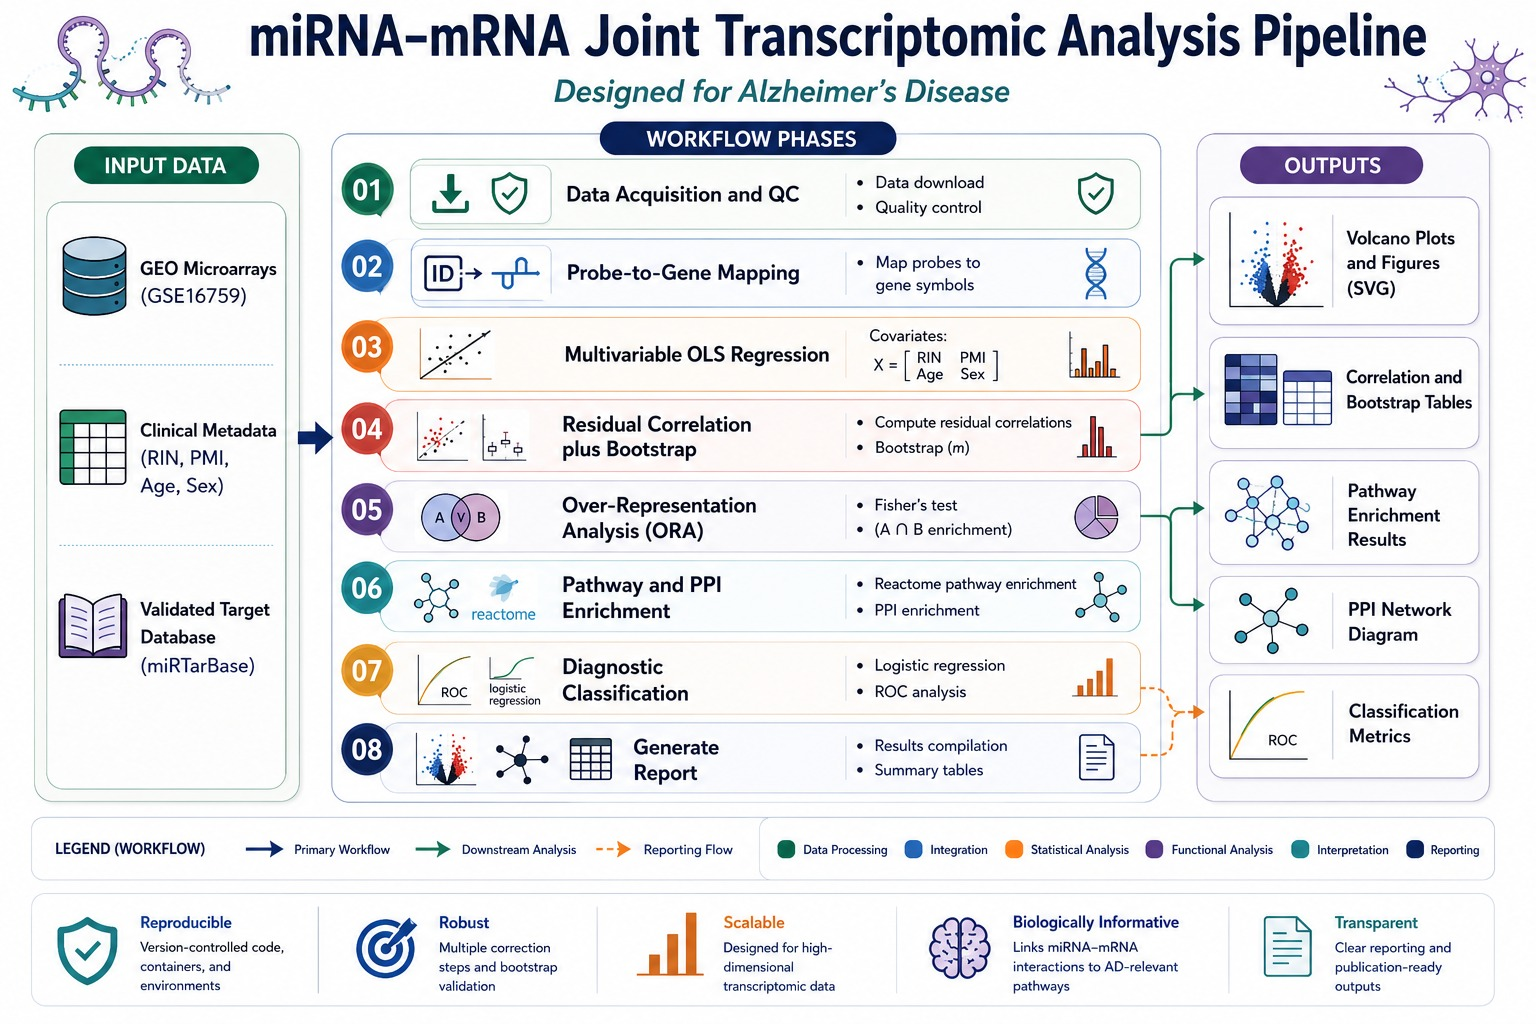
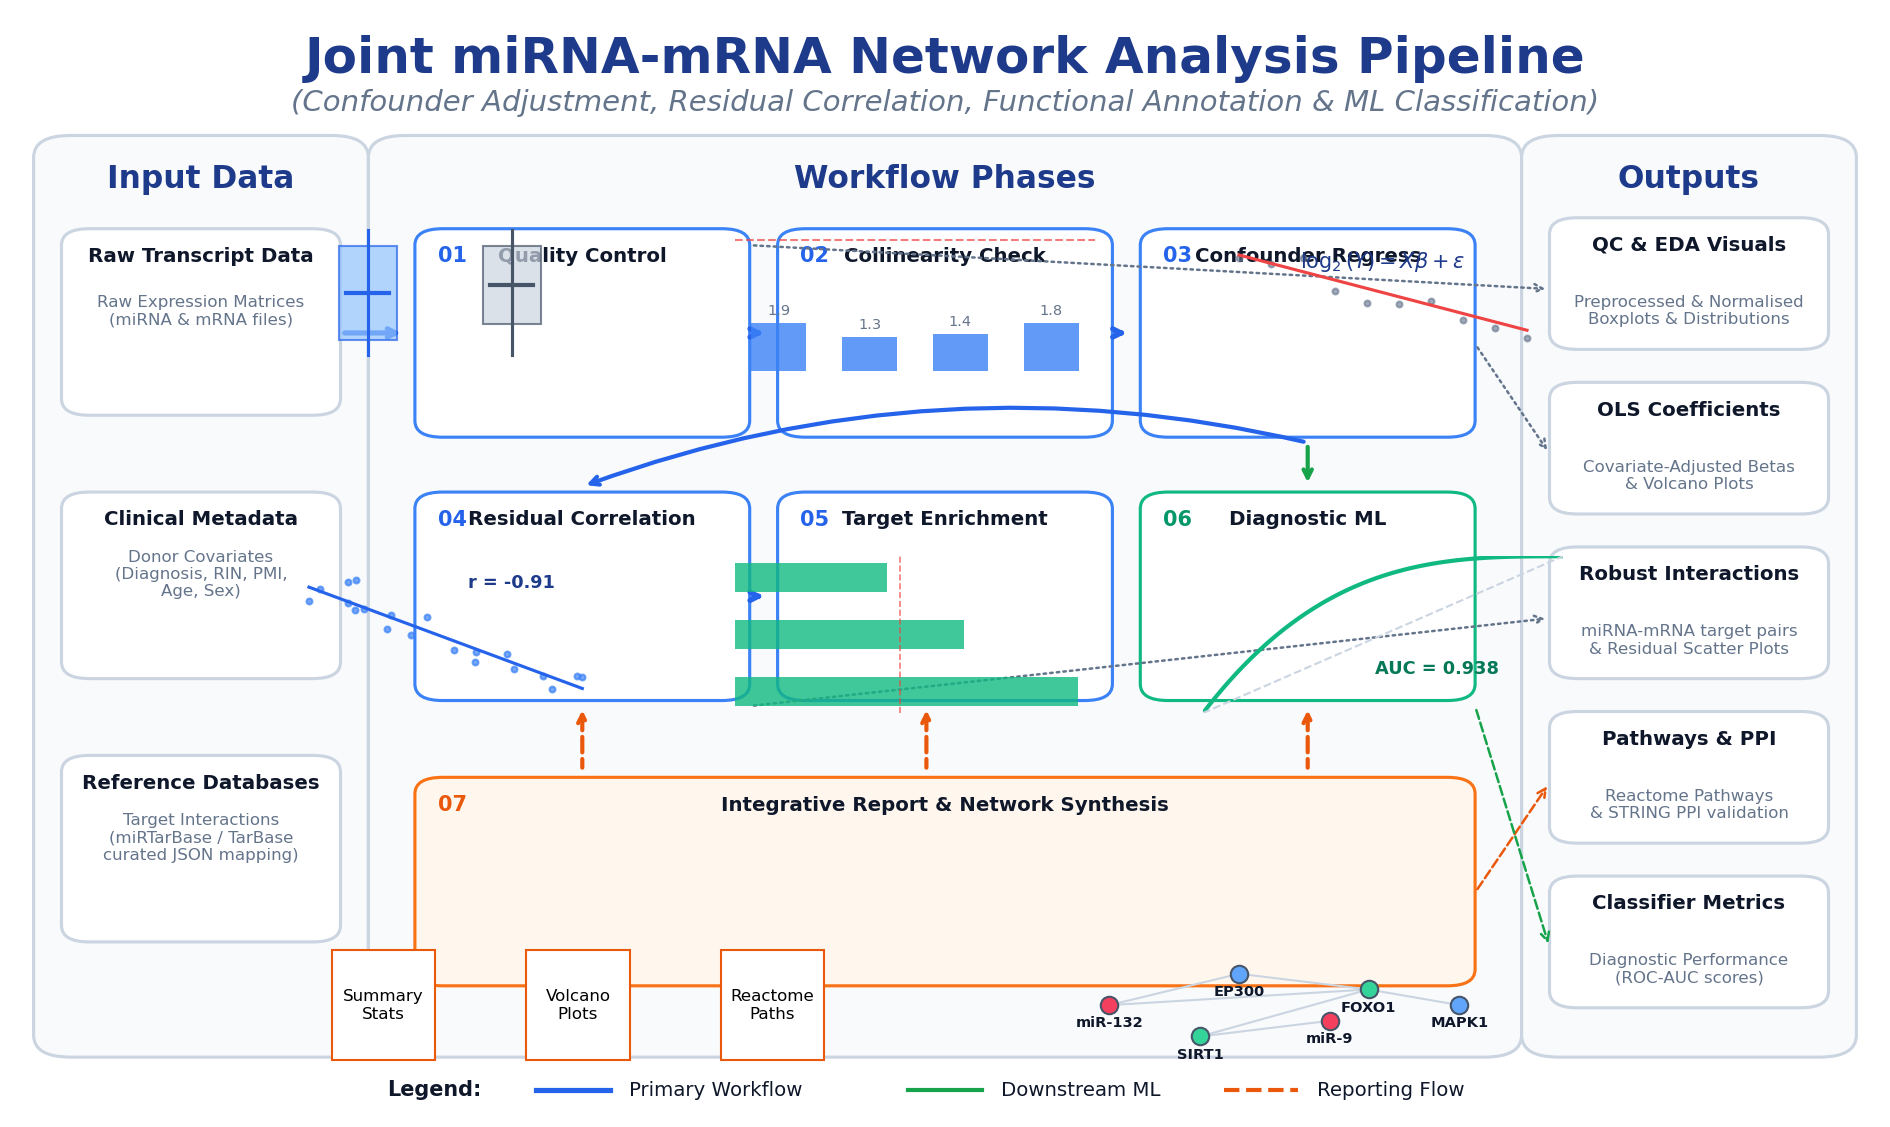
add_workflow.png

Changed region(s): [[0.0, 0.0, 1.0, 1.0]]

diff --git a/generate_workflow.py b/generate_workflow.py
@@ -1,0 +1,333 @@
+import os
+import numpy as np
+import matplotlib
+matplotlib.use('Agg')
+import matplotlib.pyplot as plt
+import matplotlib.patches as mpatches
+import matplotlib.lines as mlines
+
+# Define a color palette
+COLOR_PRIMARY = '#1e3a8a'     # Deep Blue
+COLOR_ACCENT = '#2563eb'      # Blue
+COLOR_SUCCESS = '#16a34a'     # Green
+COLOR_WARNING = '#ea580c'     # Orange/Yellow
+COLOR_BG_COLUMN = '#f8fafc'   # Slate 50
+COLOR_BORDER_COLUMN = '#cbd5e1' # Slate 300
+COLOR_TEXT_MAIN = '#0f172a'   # Slate 900
+COLOR_TEXT_MUTED = '#64748b'  # Slate 500
+
+def create_workflow_diagram(output_path):
+    fig, ax = plt.subplots(figsize=(16, 9.5), dpi=150)
+    fig.patch.set_facecolor('#ffffff')
+    ax.axis('off')
+    ax.set_xlim(0, 1)
+    ax.set_ylim(0, 1)
+
+    # ----------------------------------------------------
+    # Titles
+    # ----------------------------------------------------
+    ax.text(0.5, 0.96, "Joint miRNA-mRNA Network Analysis Pipeline", 
+            fontsize=24, fontweight='bold', ha='center', va='center', color=COLOR_PRIMARY)
+    ax.text(0.5, 0.92, "(Confounder Adjustment, Residual Correlation, Functional Annotation & ML Classification)", 
+            fontsize=14, fontstyle='italic', ha='center', va='center', color=COLOR_TEXT_MUTED)
+
+    # Helper function to draw columns
+    def draw_column(x_start, width, title, num_items=None):
+        rect = mpatches.FancyBboxPatch((x_start, 0.06), width, 0.82, boxstyle="round,pad=0.01,rounding_size=0.02",
+                                      facecolor=COLOR_BG_COLUMN, edgecolor=COLOR_BORDER_COLUMN, linewidth=1.5, zorder=0)
+        ax.add_patch(rect)
+        ax.text(x_start + width/2, 0.85, title, fontsize=15, fontweight='bold', ha='center', va='center', color=COLOR_PRIMARY)
+
+    # Draw columns
+    draw_column(0.02, 0.16, "Input Data")
+    draw_column(0.20, 0.60, "Workflow Phases")
+    draw_column(0.82, 0.16, "Outputs")
+
+    # ----------------------------------------------------
+    # Helper to draw workflow steps/cards
+    # ----------------------------------------------------
+    def draw_card(title, x, y, w, h, step_num="", card_type="primary"):
+        # Select color based on card type
+        if card_type == "primary":
+            border_c = '#3b82f6'
+            bg_c = '#ffffff'
+            num_c = '#2563eb'
+        elif card_type == "ml":
+            border_c = '#10b981'
+            bg_c = '#ffffff'
+            num_c = '#059669'
+        elif card_type == "report":
+            border_c = '#f97316'
+            bg_c = '#fff7ed'
+            num_c = '#ea580c'
+        else:
+            border_c = COLOR_BORDER_COLUMN
+            bg_c = '#ffffff'
+            num_c = COLOR_TEXT_MUTED
+
+        # Draw card background
+        card = mpatches.FancyBboxPatch((x, y), w, h, boxstyle="round,pad=0.005,rounding_size=0.015",
+                                      facecolor=bg_c, edgecolor=border_c, linewidth=1.5, zorder=1)
+        ax.add_patch(card)
+
+        # Title
+        ax.text(x + w/2, y + h - 0.02, title, fontsize=9.5, fontweight='bold', ha='center', va='center', color=COLOR_TEXT_MAIN, zorder=2)
+        
+        # Step Number Badge
+        if step_num:
+            ax.text(x + 0.015, y + h - 0.02, step_num, fontsize=10, fontweight='bold', ha='center', va='center', color=num_c, zorder=2)
+
+    # ----------------------------------------------------
+    # Column 1: Input Data Cards
+    # ----------------------------------------------------
+    # 1. Raw expression
+    draw_card("Raw Transcript Data", 0.03, 0.64, 0.14, 0.16, card_type="input")
+    ax.text(0.10, 0.73, "Raw Expression Matrices\n(miRNA & mRNA files)", fontsize=8, ha='center', va='center', color=COLOR_TEXT_MUTED)
+    # 2. Clinical Metadata
+    draw_card("Clinical Metadata", 0.03, 0.40, 0.14, 0.16, card_type="input")
+    ax.text(0.10, 0.49, "Donor Covariates\n(Diagnosis, RIN, PMI,\nAge, Sex)", fontsize=8, ha='center', va='center', color=COLOR_TEXT_MUTED)
+    # 3. Target database
+    draw_card("Reference Databases", 0.03, 0.16, 0.14, 0.16, card_type="input")
+    ax.text(0.10, 0.25, "Target Interactions\n(miRTarBase / TarBase\ncurated JSON mapping)", fontsize=8, ha='center', va='center', color=COLOR_TEXT_MUTED)
+
+    # ----------------------------------------------------
+    # Column 2: Workflow Phase Cards
+    # ----------------------------------------------------
+    # Row 1: Steps 1, 2, 3
+    # Step 1: Preprocessing & QC
+    draw_card("Quality Control", 0.22, 0.62, 0.17, 0.18, step_num="01", card_type="primary")
+    # Step 2: VIF Multicollinearity
+    draw_card("Collinearity Check", 0.415, 0.62, 0.17, 0.18, step_num="02", card_type="primary")
+    # Step 3: OLS Regress
+    draw_card("Confounder Regress", 0.61, 0.62, 0.17, 0.18, step_num="03", card_type="primary")
+
+    # Row 2: Steps 4, 5, 6
+    # Step 4: Residual Pearson Correlation
+    draw_card("Residual Correlation", 0.22, 0.38, 0.17, 0.18, step_num="04", card_type="primary")
+    # Step 5: Target ORA
+    draw_card("Target Enrichment", 0.415, 0.38, 0.17, 0.18, step_num="05", card_type="primary")
+    # Step 6: ML Classification
+    draw_card("Diagnostic ML", 0.61, 0.38, 0.17, 0.18, step_num="06", card_type="ml")
+
+    # Row 3: Step 7 (Generate Report & Network Synthesis)
+    draw_card("Integrative Report & Network Synthesis", 0.22, 0.12, 0.56, 0.18, step_num="07", card_type="report")
+
+    # ----------------------------------------------------
+    # Column 3: Outputs
+    # ----------------------------------------------------
+    draw_card("QC & EDA Visuals", 0.83, 0.70, 0.14, 0.11, card_type="output")
+    ax.text(0.90, 0.73, "Preprocessed & Normalised\nBoxplots & Distributions", fontsize=8, ha='center', va='center', color=COLOR_TEXT_MUTED)
+
+    draw_card("OLS Coefficients", 0.83, 0.55, 0.14, 0.11, card_type="output")
+    ax.text(0.90, 0.58, "Covariate-Adjusted Betas\n& Volcano Plots", fontsize=8, ha='center', va='center', color=COLOR_TEXT_MUTED)
+
+    draw_card("Robust Interactions", 0.83, 0.40, 0.14, 0.11, card_type="output")
+    ax.text(0.90, 0.43, "miRNA-mRNA target pairs\n& Residual Scatter Plots", fontsize=8, ha='center', va='center', color=COLOR_TEXT_MUTED)
+
+    draw_card("Pathways & PPI", 0.83, 0.25, 0.14, 0.11, card_type="output")
+    ax.text(0.90, 0.28, "Reactome Pathways\n& STRING PPI validation", fontsize=8, ha='center', va='center', color=COLOR_TEXT_MUTED)
+
+    draw_card("Classifier Metrics", 0.83, 0.10, 0.14, 0.11, card_type="output")
+    ax.text(0.90, 0.13, "Diagnostic Performance\n(ROC-AUC scores)", fontsize=8, ha='center', va='center', color=COLOR_TEXT_MUTED)
+
+    # ----------------------------------------------------
+    # INSETS: Embedding mini-plots inside workflow cards!
+    # ----------------------------------------------------
+    # 01 QC: Mini Boxplot
+    ax_ins1 = fig.add_axes([0.23, 0.63, 0.15, 0.11])
+    ax_ins1.axis('off')
+    # Draw simple boxes
+    ax_ins1.add_patch(mpatches.Rectangle((1, 0.2), 0.8, 0.6, facecolor='#93c5fd', edgecolor='#2563eb', alpha=0.7))
+    ax_ins1.add_patch(mpatches.Rectangle((3, 0.3), 0.8, 0.5, facecolor='#cbd5e1', edgecolor='#475569', alpha=0.7))
+    ax_ins1.plot([1.4, 1.4], [0.1, 0.9], color='#2563eb', linewidth=1.5)
+    ax_ins1.plot([3.4, 3.4], [0.1, 0.9], color='#475569', linewidth=1.5)
+    ax_ins1.plot([1.1, 1.7], [0.5, 0.5], color='#2563eb', linewidth=2)
+    ax_ins1.plot([3.1, 3.7], [0.55, 0.55], color='#475569', linewidth=2)
+    ax_ins1.set_xlim(0, 5)
+    ax_ins1.set_ylim(0, 1)
+
+    # 02 VIF: Mini Bar Chart
+    ax_ins2 = fig.add_axes([0.425, 0.63, 0.15, 0.11])
+    ax_ins2.axis('off')
+    bars = ax_ins2.bar(['A', 'P', 'R', 'S'], [1.85, 1.30, 1.43, 1.82], color='#3b82f6', alpha=0.8, width=0.6)
+    ax_ins2.axhline(y=5.0, color='#ef4444', linestyle='--', linewidth=1, alpha=0.7)
+    ax_ins2.set_ylim(0, 6)
+    # Add tiny text labels
+    for bar in bars:
+        height = bar.get_height()
+        ax_ins2.text(bar.get_x() + bar.get_width()/2., height + 0.2, f'{height:.1f}',
+                    ha='center', va='bottom', fontsize=7, color=COLOR_TEXT_MUTED)
+
+    # 03 OLS: Mini formula / regression plot
+    ax_ins3 = fig.add_axes([0.62, 0.63, 0.15, 0.11])
+    ax_ins3.axis('off')
+    ax_ins3.text(0.5, 0.7, r"$\log_2(Y) = X\beta + \varepsilon$", fontsize=10, ha='center', va='center', color=COLOR_PRIMARY)
+    # Draw simple regression line
+    xs = np.linspace(0.1, 0.9, 10)
+    ys = 0.8 - 0.6 * xs + np.random.normal(0, 0.05, 10)
+    ax_ins3.scatter(xs, ys, color='#64748b', s=8, alpha=0.6)
+    ax_ins3.plot(xs, 0.8 - 0.6 * xs, color='#ef4444', linewidth=1.5)
+    ax_ins3.set_xlim(0, 1)
+    ax_ins3.set_ylim(0, 1)
+
+    # 04 Residual Correlation: Scatter Plot
+    ax_ins4 = fig.add_axes([0.23, 0.39, 0.15, 0.11])
+    ax_ins4.axis('off')
+    # Generate anti-correlated scatter
+    np.random.seed(42)
+    rx = np.random.uniform(0.1, 0.9, 20)
+    ry = 0.9 - 0.8 * rx + np.random.normal(0, 0.08, 20)
+    ax_ins4.scatter(rx, ry, color='#3b82f6', s=8, alpha=0.7)
+    ax_ins4.plot(np.unique(rx), np.poly1d(np.polyfit(rx, ry, 1))(np.unique(rx)), color='#2563eb', linewidth=1.5)
+    ax_ins4.text(0.8, 0.8, "r = -0.91", fontsize=8.5, weight='bold', color='#1e3a8a', ha='right')
+    ax_ins4.set_xlim(0, 1)
+    ax_ins4.set_ylim(0, 1)
+
+    # 05 Target ORA: Enrichment bars
+    ax_ins5 = fig.add_axes([0.425, 0.39, 0.15, 0.11])
+    ax_ins5.axis('off')
+    pathways = ['miR-9', 'miR-132', 'miR-155']
+    p_vals = [2.7, 1.8, 1.2]  # -log10 p-values
+    y_pos = np.arange(len(pathways))
+    ax_ins5.barh(y_pos, p_vals, color='#10b981', alpha=0.8, height=0.5)
+    ax_ins5.axvline(x=1.3, color='#ef4444', linestyle='--', linewidth=0.8, alpha=0.7) # p=0.05
+    ax_ins5.set_yticks(y_pos)
+    ax_ins5.set_yticklabels(pathways, fontsize=6.5, color=COLOR_TEXT_MAIN)
+    ax_ins5.tick_params(left=False, bottom=False, labelbottom=False)
+
+    # 06 Diagnostic ML: ROC Curve
+    ax_ins6 = fig.add_axes([0.62, 0.39, 0.15, 0.11])
+    ax_ins6.axis('off')
+    # ROC curve
+    roc_x = np.linspace(0, 1, 100)
+    roc_y = 1 - (1 - roc_x)**3 # high AUC
+    ax_ins6.plot(roc_x, roc_y, color='#10b981', linewidth=2)
+    ax_ins6.plot([0, 1], [0, 1], color='#cbd5e1', linestyle='--', linewidth=1)
+    ax_ins6.text(0.65, 0.25, "AUC = 0.938", fontsize=8.5, weight='bold', color='#047857', ha='center')
+    ax_ins6.set_xlim(0, 1)
+    ax_ins6.set_ylim(0, 1)
+
+    # 07 Report & Network: Complex network plot + report icons
+    ax_ins7 = fig.add_axes([0.23, 0.13, 0.54, 0.11])
+    ax_ins7.axis('off')
+    # Draw simple report items
+    # Doc icon 1: Summary Stats
+    ax_ins7.add_patch(mpatches.Rectangle((0.05, 0.15), 0.08, 0.7, facecolor='#ffffff', edgecolor='#ea580c', linewidth=1))
+    ax_ins7.text(0.09, 0.5, "Summary\nStats", fontsize=8, ha='center', va='center')
+    # Doc icon 2: Plots
+    ax_ins7.add_patch(mpatches.Rectangle((0.20, 0.15), 0.08, 0.7, facecolor='#ffffff', edgecolor='#ea580c', linewidth=1))
+    ax_ins7.text(0.24, 0.5, "Volcano\nPlots", fontsize=8, ha='center', va='center')
+    # Doc icon 3: Pathways
+    ax_ins7.add_patch(mpatches.Rectangle((0.35, 0.15), 0.08, 0.7, facecolor='#ffffff', edgecolor='#ea580c', linewidth=1))
+    ax_ins7.text(0.39, 0.5, "Reactome\nPaths", fontsize=8, ha='center', va='center')
+    
+    # Draw simple Network Representation in the remaining space of Step 7
+    # Nodes:
+    nodes = [(0.65, 0.5), (0.75, 0.7), (0.85, 0.6), (0.72, 0.3), (0.82, 0.4), (0.92, 0.5)]
+    labels = ['miR-132', 'EP300', 'FOXO1', 'SIRT1', 'miR-9', 'MAPK1']
+    node_colors = ['#f43f5e', '#60a5fa', '#34d399', '#34d399', '#f43f5e', '#60a5fa']
+    
+    # Edges:
+    edges = [(0, 1), (0, 2), (4, 3), (3, 2), (5, 2), (1, 2)]
+    for e in edges:
+        n1, n2 = nodes[e[0]], nodes[e[1]]
+        ax_ins7.plot([n1[0], n2[0]], [n1[1], n2[1]], color='#cbd5e1', linewidth=1, zorder=1)
+        
+    for i, (nx, ny) in enumerate(nodes):
+        ax_ins7.scatter(nx, ny, color=node_colors[i], s=70, edgecolor='#475569', zorder=2)
+        ax_ins7.text(nx, ny - 0.14, labels[i], fontsize=7, weight='bold', ha='center', color=COLOR_TEXT_MAIN, zorder=3)
+    ax_ins7.set_xlim(0, 1)
+    ax_ins7.set_ylim(0, 1)
+
+    # ----------------------------------------------------
+    # CONNECTING ARROWS & FLOWS
+    # ----------------------------------------------------
+    # Input Data -> QC Card
+    ax.annotate('', xy=(0.21, 0.71), xytext=(0.175, 0.71),
+                arrowprops=dict(arrowstyle="->", color=COLOR_ACCENT, lw=2.5))
+    
+    # Input Data -> Clinical Metadata Metadata -> QC Card
+    # Handled by metadata inputs going into step 1 and 2
+    # Arrow between Row 1 Cards: Step 01 -> Step 02
+    ax.annotate('', xy=(0.405, 0.71), xytext=(0.395, 0.71),
+                arrowprops=dict(arrowstyle="->", color=COLOR_ACCENT, lw=2.5))
+    # Step 02 -> Step 03
+    ax.annotate('', xy=(0.60, 0.71), xytext=(0.59, 0.71),
+                arrowprops=dict(arrowstyle="->", color=COLOR_ACCENT, lw=2.5))
+    
+    # Step 03 -> Step 04 (Adjusted expression goes to correlation)
+    # Down arrow and left arrow
+    ax.annotate('', xy=(0.305, 0.57), xytext=(0.695, 0.61),
+                arrowprops=dict(arrowstyle="->", color=COLOR_ACCENT, lw=2.0, connectionstyle="arc3,rad=0.15"))
+    
+    # Step 03 -> Step 06 (ML classification on adjusted residuals)
+    # Down arrow
+    ax.annotate('', xy=(0.695, 0.57), xytext=(0.695, 0.61),
+                arrowprops=dict(arrowstyle="->", color=COLOR_SUCCESS, lw=2.0))
+
+    # Step 04 -> Step 05 (Residuals to target ORA)
+    ax.annotate('', xy=(0.405, 0.47), xytext=(0.395, 0.47),
+                arrowprops=dict(arrowstyle="->", color=COLOR_ACCENT, lw=2.5))
+
+    # Step 05 -> Step 07 (Enrichments to Integrative report)
+    ax.annotate('', xy=(0.49, 0.31), xytext=(0.49, 0.37),
+                arrowprops=dict(arrowstyle="<-", color=COLOR_WARNING, lw=2.0, linestyle='--'))
+
+    # Step 06 -> Step 07 (ML classification to Integrative report)
+    ax.annotate('', xy=(0.695, 0.31), xytext=(0.695, 0.37),
+                arrowprops=dict(arrowstyle="<-", color=COLOR_WARNING, lw=2.0, linestyle='--'))
+
+    # Step 04 -> Step 07 (Residual correlation to Integrative report)
+    ax.annotate('', xy=(0.305, 0.31), xytext=(0.305, 0.37),
+                arrowprops=dict(arrowstyle="<-", color=COLOR_WARNING, lw=2.0, linestyle='--'))
+
+    # ----------------------------------------------------
+    # Workflow Phases to Outputs Column Arrows
+    # ----------------------------------------------------
+    # Connect Step 01 -> Output 1
+    ax.annotate('', xy=(0.825, 0.75), xytext=(0.395, 0.79),
+                arrowprops=dict(arrowstyle="->", color=COLOR_TEXT_MUTED, lw=1.2, ls=':'))
+    # Connect Step 03 -> Output 2
+    ax.annotate('', xy=(0.825, 0.60), xytext=(0.785, 0.70),
+                arrowprops=dict(arrowstyle="->", color=COLOR_TEXT_MUTED, lw=1.2, ls=':'))
+    # Connect Step 04 -> Output 3
+    ax.annotate('', xy=(0.825, 0.45), xytext=(0.395, 0.37),
+                arrowprops=dict(arrowstyle="->", color=COLOR_TEXT_MUTED, lw=1.2, ls=':'))
+    # Connect Step 07 -> Output 4
+    ax.annotate('', xy=(0.825, 0.30), xytext=(0.785, 0.20),
+                arrowprops=dict(arrowstyle="->", color=COLOR_WARNING, lw=1.2, ls='--'))
+    # Connect Step 06 -> Output 5
+    ax.annotate('', xy=(0.825, 0.15), xytext=(0.785, 0.37),
+                arrowprops=dict(arrowstyle="->", color=COLOR_SUCCESS, lw=1.2, ls='--'))
+
+    # ----------------------------------------------------
+    # Legend at the Bottom
+    # ----------------------------------------------------
+    legend_y = 0.02
+    ax.text(0.20, legend_y, "Legend:", fontsize=10, fontweight='bold', color=COLOR_TEXT_MAIN, ha='left', va='center')
+    
+    # Legend Items
+    # 1. Primary Workflow
+    ax.plot([0.28, 0.32], [legend_y, legend_y], color=COLOR_ACCENT, lw=2.5)
+    ax.text(0.33, legend_y, "Primary Workflow", fontsize=9.5, color=COLOR_TEXT_MAIN, ha='left', va='center')
+    
+    # 2. Downstream Analysis (ML)
+    ax.plot([0.48, 0.52], [legend_y, legend_y], color=COLOR_SUCCESS, lw=2.0)
+    ax.text(0.53, legend_y, "Downstream ML", fontsize=9.5, color=COLOR_TEXT_MAIN, ha='left', va='center')
+    
+    # 3. Reporting / Validation Flow
+    ax.plot([0.65, 0.69], [legend_y, legend_y], color=COLOR_WARNING, lw=2.0, linestyle='--')
+    ax.text(0.70, legend_y, "Reporting Flow", fontsize=9.5, color=COLOR_TEXT_MAIN, ha='left', va='center')
+
+    # Save
+    os.makedirs(os.path.dirname(output_path), exist_ok=True)
+    plt.savefig(output_path, facecolor=fig.get_facecolor(), edgecolor='none', bbox_inches='tight', pad_inches=0.1)
+    plt.close()
+    print(f"Successfully generated workflow diagram at {output_path}")
+
+if __name__ == "__main__":
+    import sys
+    path = "docs/figures/workflow.png"
+    if len(sys.argv) > 1:
+        path = sys.argv[1]
+    create_workflow_diagram(path)

diff --git a/README.md b/README.md
@@ -169,8 +169,6 @@ After adjustment for PMI, RIN, age, and sex, the pipeline identifies the followi
 | **hsa-miR-155** | $+1.273$ | $0.031$ | Significant upregulation; consistent with microglial neuroinflammatory activation |
 | **hsa-miR-132** | $-0.751$ | $0.086$ | Downregulation; de-repression of validated targets (*ITPKB*, *EP300*) |
 
-![Differential Expression Volcano Plots](docs/figures/real_volcano_plots.svg)
-
 ### 5.2 Confounder-Adjusted Residual Correlations
 
 Pearson correlations computed on OLS residuals ($\hat{\varepsilon}$), with 1,000-fold bootstrap stability assessment:
@@ -182,13 +180,9 @@ Pearson correlations computed on OLS residuals ($\hat{\varepsilon}$), with 1,000
 
 The strong inverse correlation between hsa-miR-9 and *SIRT1* (a NAD⁺-dependent deacetylase with established neuroprotective functions) implicates miR-9-mediated SIRT1 repression as a pathogenic feedback loop contributing to impaired amyloid clearance and tau hyperacetylation.
 
-![Confounder-Adjusted Residual Scatter Plot](docs/figures/real_adjusted_correlation.svg)
-
 ### 5.3 miRNA–mRNA Regulatory Interactome
 
 The bipartite network connecting AD-dysregulated miRNAs to their target mRNAs reveals a complex post-transcriptional regulatory architecture:
-
-![miRNA–mRNA Bipartite Interactome](docs/figures/real_interactome_network.svg)
 
 ### 5.4 STRING PPI Network Validation
 
@@ -203,8 +197,6 @@ Query of the STRING database (v12.0) with the 11 target transcripts yields:
 | **PPI enrichment $p$-value** | **0.0017** |
 
 The significant enrichment ($p = 0.0017$) confirms that the miRNA-targeted transcripts encode proteins that participate in a functionally coordinated interaction network, rather than representing a random gene set.
-
-![STRING PPI Target Network](docs/figures/target_ppi_network.svg)
 
 ### 5.5 Reactome Pathway Enrichment
 